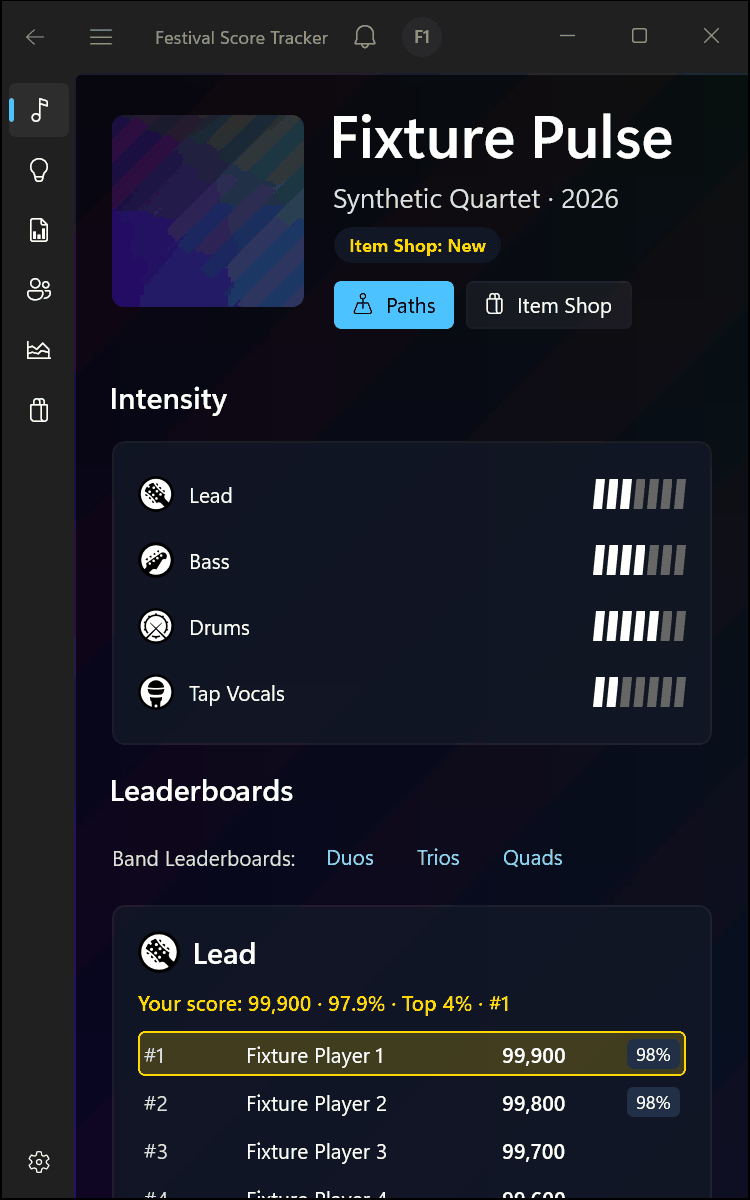
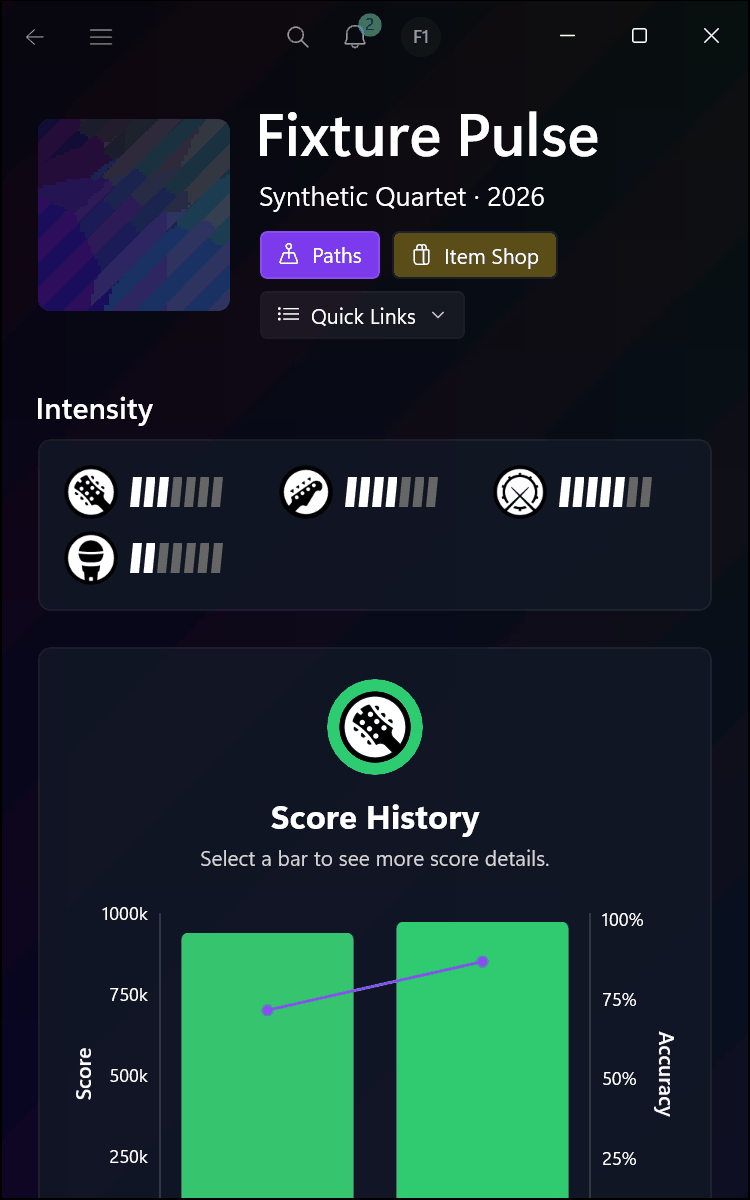
Song Detail: per-chart fallback when /all 404s, two card columns from 320 epx, docs + fixture shots
Claude-Session: https://claude.ai/code/session_01M7chxMRa5N8j2VVNsjU9cZ

diff --git a/windows/Festival.App/Pages/SongDetailPage.xaml b/windows/Festival.App/Pages/SongDetailPage.xaml
@@ -243,7 +243,7 @@
                                ElementPrepared="OnBoardPrepared">
                     <ItemsRepeater.Layout>
                         <!-- At most two cards per row (web isTwoCol), even on wide windows; two already at a portrait tablet. -->
-                        <UniformGridLayout MinItemWidth="340" MinRowSpacing="16" MinColumnSpacing="16" ItemsStretch="Fill"
+                        <UniformGridLayout MinItemWidth="320" MinRowSpacing="16" MinColumnSpacing="16" ItemsStretch="Fill"
                                            MaximumRowsOrColumns="2" />
                     </ItemsRepeater.Layout>
                     <ItemsRepeater.ItemTemplate>

diff --git a/windows/Festival.Core/ViewModels/SongDetailViewModel.cs b/windows/Festival.Core/ViewModels/SongDetailViewModel.cs
@@ -223,7 +223,10 @@ public sealed partial class SongDetailViewModel : ObservableObject
         return Song is { } song ? [.. InstrumentInfo.All.Where(i => visible.Contains(i) && song.Supports(i))] : [];
     }
 
-    /// <summary>Fills every card from one <c>/all</c> read, or reports its failure on each card.</summary>
+    /// <summary>
+    /// Fills every card from one <c>/all</c> read, or reports its failure on each card. A 404 (a service or fixture
+    /// without the combined route) falls back to one read per chart.
+    /// </summary>
     /// <param name="song">Song.</param>
     /// <param name="cards">Cards.</param>
     /// <returns>Load task.</returns>
@@ -234,6 +237,10 @@ public sealed partial class SongDetailViewModel : ObservableObject
             double? leeway = session.Settings.FilterInvalidScores ? session.Settings.Leeway : null;
             var all = await session.Api.GetAllLeaderboardsAsync(song.SongId, PreviewTop, leeway);
             foreach (var card in cards) card.Apply(all.For(card.Instrument));
+        }
+        catch (FestivalApiException error) when (error is { Kind: FestivalApiErrorKind.HttpStatus, StatusCode: 404 })
+        {
+            await Task.WhenAll(cards.Select(c => c.LoadAsync()));
         }
         catch (FestivalApiException error)
         {

diff --git a/windows/Festival.Core.Tests/SongScoreHistoryTests.cs b/windows/Festival.Core.Tests/SongScoreHistoryTests.cs
@@ -433,6 +433,19 @@ public class SongDetailHistoryPageTests
     }
 
     [Fact]
+    public async Task AllLeaderboardsMissing_FallsBackToPerChartReads()
+    {
+        var service = new FakeService
+        {
+            Override = r => r.RequestUri!.AbsolutePath.EndsWith("/all", StringComparison.Ordinal) ? Wire.Response(HttpStatusCode.NotFound) : null,
+        };
+        var vm = new SongDetailViewModel(service.Session(), new AppRoute.SongDetail("s1"));
+        await vm.LoadAsync();
+        Assert.All(vm.Leaderboards, c => Assert.True(c.ShowRows));
+        Assert.Single(service.Handler.To("/api/leaderboard/s1/Solo_Bass"));
+    }
+
+    [Fact]
     public async Task NoVisibleChartedInstrument_SkipsTheBoardsRead()
     {
         var service = new FakeService();

diff --git a/windows/Festival.App/Pages/SongDetailPage.xaml.cs b/windows/Festival.App/Pages/SongDetailPage.xaml.cs
@@ -181,9 +181,9 @@ public sealed partial class SongDetailPage : Page, IBackdropPage
         });
     }
 
-    /// <summary>Cards per row in the leaderboard grid (two from 2 × 340 + 16 epx).</summary>
+    /// <summary>Cards per row in the leaderboard grid (two from 2 × 320 + 16 epx).</summary>
     /// <returns>1 or 2.</returns>
-    private int BoardColumns() => Boards.ActualWidth >= 2 * 340 + 16 ? 2 : 1;
+    private int BoardColumns() => Boards.ActualWidth >= 2 * 320 + 16 ? 2 : 1;
     #endregion
 
     /// <summary>Applies the Item Shop button's status fill (gold New, red Leaving Tomorrow, green otherwise).</summary>

diff --git a/.agents/pages/song-detail/windows.md b/.agents/pages/song-detail/windows.md
@@ -8,11 +8,14 @@
 - Header: 128 px art, title (heading 1), `artist · year · duration`, **Paths** (brand-purple accent) and **Item Shop** (official link via `Launcher`, validated `https://www.fortnite.com/item-shop/jam-tracks/…` only) actions. There is no "Item Shop: …" chip (operator 2026-09-28): the Item Shop button's fill breathes in the status colour (`Controls/ShopPulseFill`, web `shopBreathe*`: 3 s ease-in-out from the `#F5121826` surface to gold `#CFA500` New, red `#EF4444` Leaving Tomorrow or green `#1E7F46` in the Shop) while Shop highlighting is on; highlighting off, Reduce Motion / Animation effects off or a hidden window hold the colour still. The UIA name carries the status ("Open in Item Shop, Leaving Tomorrow"). A failed Shop read shows a warning `InfoBar` (`fst.song-detail.shop-error`); hidden Shop shows neither.
 - Pinned header: once the full header scrolls away, a compact bar (40 epx art, marquee title/subtitle, **Paths** command) stays at the top (`fst.song-detail.pinned-header`, `fst.song-detail.pinned-paths`), on the near-opaque `FSTPinnedHeaderBrush` (no blur).
 - Intensity card for **every charted** chart (hidden ones included), web `IntensityCard` cells: 36 epx icon + bars (name in the tooltip and UIA name), three per row (3×3 for nine charts) at compact/medium and all on one row when they fit (`SongDetailLayout.IntensityColumns`).
-- At most **two** leaderboard cards per row, even on wide windows (web `isTwoCol`).
+- At most **two** leaderboard cards per row, even on wide windows (web `isTwoCol`); two from 320 epx each, so portrait tablet (800) and snap halves already show two (operator 6.31).
+- **Load choreography** (web `useLoadPhase` + `useStagger`, operator 6.41; `Domain/SongDetailReveal`): the page keeps its spinner until the song, the player's scores, their song history and every chart's top rows have settled, fades the spinner out (500 ms), then fades up header → Intensity (100 ms) → Score History (150 ms) → Leaderboards and card rows (300 ms + 150 ms per grid row). Loads under 150 ms (cached) or with motion off reveal at once. Content is transparent, not collapsed, during the fade so cards realize and measure first.
+- **Score History** (web `ScoreHistoryChart` in `GraphCard`, operator 6.39; `SongScoreHistoryViewModel`, `Controls/SongScoreHistoryChart`): selected player only, between Intensity and Leaderboards. One read, `GET /api/player/{id}/history?songId=` (all charts), filtered by Filter Invalid Scores (`maxScore × (1 + leeway/100)`). Card: required [Instrument Selector](../../controls/instrument-selector/windows.md) over the visible charts with rows (route chart, else Lead, else first), title + "Select a bar…", accuracy bars (red→green, gold 100% FC, purple stroke when selected) on a right 0–100% axis with the score as a blue line on a nice four-step left axis, `M/D/YY` labels, legend; bars page by width (96 epx min bar + 8 gap, « ‹ › » like `useChartPagination`) and a selected bar shows its detail row. Below: sort menu (native, keeps the old page's Date/Score/Accuracy/Season), top five by score with the best in the web purple, then **View all scores** expands in place. Hidden without a player, for unregistered players (404) or with no rows; 202 shows "still being prepared" + Retry; failures show the inline status. IDs keep the `fst.history.*` family (`fst.history`, `.subtitle`, `.chart`, `.bar.<n>`, `.detail`, `.page-*`, `.entry-*`, `.rows`, `.view-all`, `.message`, `.sort.*`, `.instrument.<Solo_…>`).
+- The `/songs/:id/:instrument/history` route (`AppRoute.PlayerHistory`) opens **Song Detail** with that chart selected and scrolled to Score History (`MainWindow.PageFor`); the separate `PlayerHistoryPage` is no longer routed.
 - Rows: rank, name, score, then the accuracy badge (web `AccuracyDisplay`, `Controls/ScoreBadge`): a full combo is the gold skewed outline badge; others a red→green tinted pill. No separate FC chip.
-- Leaderboards: Band Leaderboards links (Duos/Trios/Quads → `AppRoute.SongBandLeaderboard`), then one card per **visible** charted instrument, loaded lazily when realized (`?top=10`, plus `leeway` when Filter Invalid Scores is on). The icon + name header sits **above** the card (`Controls/CardHeader`) with "N total entries" as its subtitle when the service allows totals (`showLeaderboardEntryTotals`). Rows are the top ten, then the selected player's own row as **row eleven** when they rank outside it (built from their profile score); a player inside the top ten is highlighted in place. **View Full Leaderboard** is a full-width purple accent button below the rows (`fst.song-detail.view-all.<instrument>`). A chart with no scores says "No scores recorded yet" as the header subtitle (web `songDetail.noScores`), the web's `noScoresSubtitle` sentence in the card and no View Full Leaderboard. The gold "Your score: …" line only shows while no row stands for the player (syncing, paused, no score). **View {chart} Score History** links `AppRoute.PlayerHistory`.
+- Leaderboards: Band Leaderboards links (Duos/Trios/Quads → `AppRoute.SongBandLeaderboard`), then one card per **visible** charted instrument, all filled by one `GET /api/leaderboard/{song}/all?top=10` (plus `leeway` when Filter Invalid Scores is on; web `getAllLeaderboards`). A failed read becomes each card's inline error with Retry (per-chart read); a 404 (older service, `tools/mock_service.py`) falls back to per-chart reads. The icon + name header sits **above** the card (`Controls/CardHeader`) with "N total entries" as its subtitle when the service allows totals (`showLeaderboardEntryTotals`). Rows are the top ten, then the selected player's own row as **row eleven** when they rank outside it (built from their profile score); a player inside the top ten is highlighted in place. **View Full Leaderboard** is a full-width purple accent button below the rows (`fst.song-detail.view-all.<instrument>`). A chart with no scores says "No scores recorded yet" as the header subtitle (web `songDetail.noScores`), the web's `noScoresSubtitle` sentence in the card and no View Full Leaderboard. Cards carry no "Your score…" text (operator 6.38); the selected player's row (in place or row eleven) uses the web's purple highlight (`purpleHighlight`/`purpleHighlightBorder`) with **bold** rank and name (`LeaderboardEntry isPlayer`, operator 6.42; `Controls/SongDetailVisuals`).
 - Paths: modal `ContentDialog` (focus contained and restored) sized to the window; see [chopt-paths/windows.md](../../controls/chopt-paths/windows.md).
 
 ## Open
 
-Band preview cards; FC/stars styling of preview rows; scrolling to the initial instrument; Quick Links.
+Band preview cards; FC/stars styling of preview rows; scrolling to the initial instrument (`?instrument=`); chart page-change animation (bars redraw without the web's Recharts tween); Recharts `monotone` curve (straight segments here). `tools/mock_service.py` has no `/all` route (the fallback covers it). TODO(orchestrator): delete `PlayerHistoryPage`/`PlayerHistoryViewModel` once its tests move (shared `PlayerViewModelTests.cs`).

diff --git a/.agents/pages/player-history/windows.md b/.agents/pages/player-history/windows.md
@@ -2,7 +2,8 @@
 
 > **What:** the Windows score-history page for the selected player. **Read when:** changing `windows/Festival.App/Pages/PlayerHistoryPage*`, `PlayerHistoryViewModel` or `PlayerHistoryModels`. Behavior: [spec.md](spec.md).
 
-- Route `AppRoute.PlayerHistory(songId, instrument)` → `PlayerHistoryPage`; read `GET /api/player/{accountId}/history?songId=&instrument=` via `FestivalApiClient.GetPlayerHistoryAsync` (202 → Syncing, 404 → Unregistered; rows re-filtered to the song/chart like the web). Entry point: Song Detail (Songs lane).
+- **Folded into Song Detail (operator 6.39):** `AppRoute.PlayerHistory` now opens Song Detail with the chart selected and scrolled to its Score History section — see [song-detail/windows.md](../song-detail/windows.md). The notes below describe the retired standalone page (`PlayerHistoryPage`, unrouted; its sort menu, row states and `fst.history.*` IDs carried over).
+- Route `AppRoute.PlayerHistory(songId, instrument)` → `PlayerHistoryPage` (before 6.39); read `GET /api/player/{accountId}/history?songId=&instrument=` via `FestivalApiClient.GetPlayerHistoryAsync` (202 → Syncing, 404 → Unregistered; rows re-filtered to the song/chart like the web). Entry point: Song Detail (Songs lane).
 - States (`PlayerHistoryPhase`): NoPlayer (no request), Loading, Unregistered ("registered users only"), Syncing (Retry), Empty, Failed (`ServiceStatusView`), Loaded. A selected-player change re-reads (per-entity reset).
 - Sort: a `DropDownButton` + `MenuFlyout` with radio items (Date/Score/Accuracy/Season, Ascending/Descending, Reset) that applies immediately. This Fluent command-menu idiom replaces the web modal with Apply/Cancel. Default Score descending; not persisted (matches the web). The personal-best row (gold stroke and score) follows the sort (`HighScoreIndex`).
 - Rows: virtualized `ListView` of two-line cards (score + star images (`StarRow`); date · season + accuracy/FC pills) that fit compact widths. Accuracy uses the leaderboard scale (the service stores an int).
